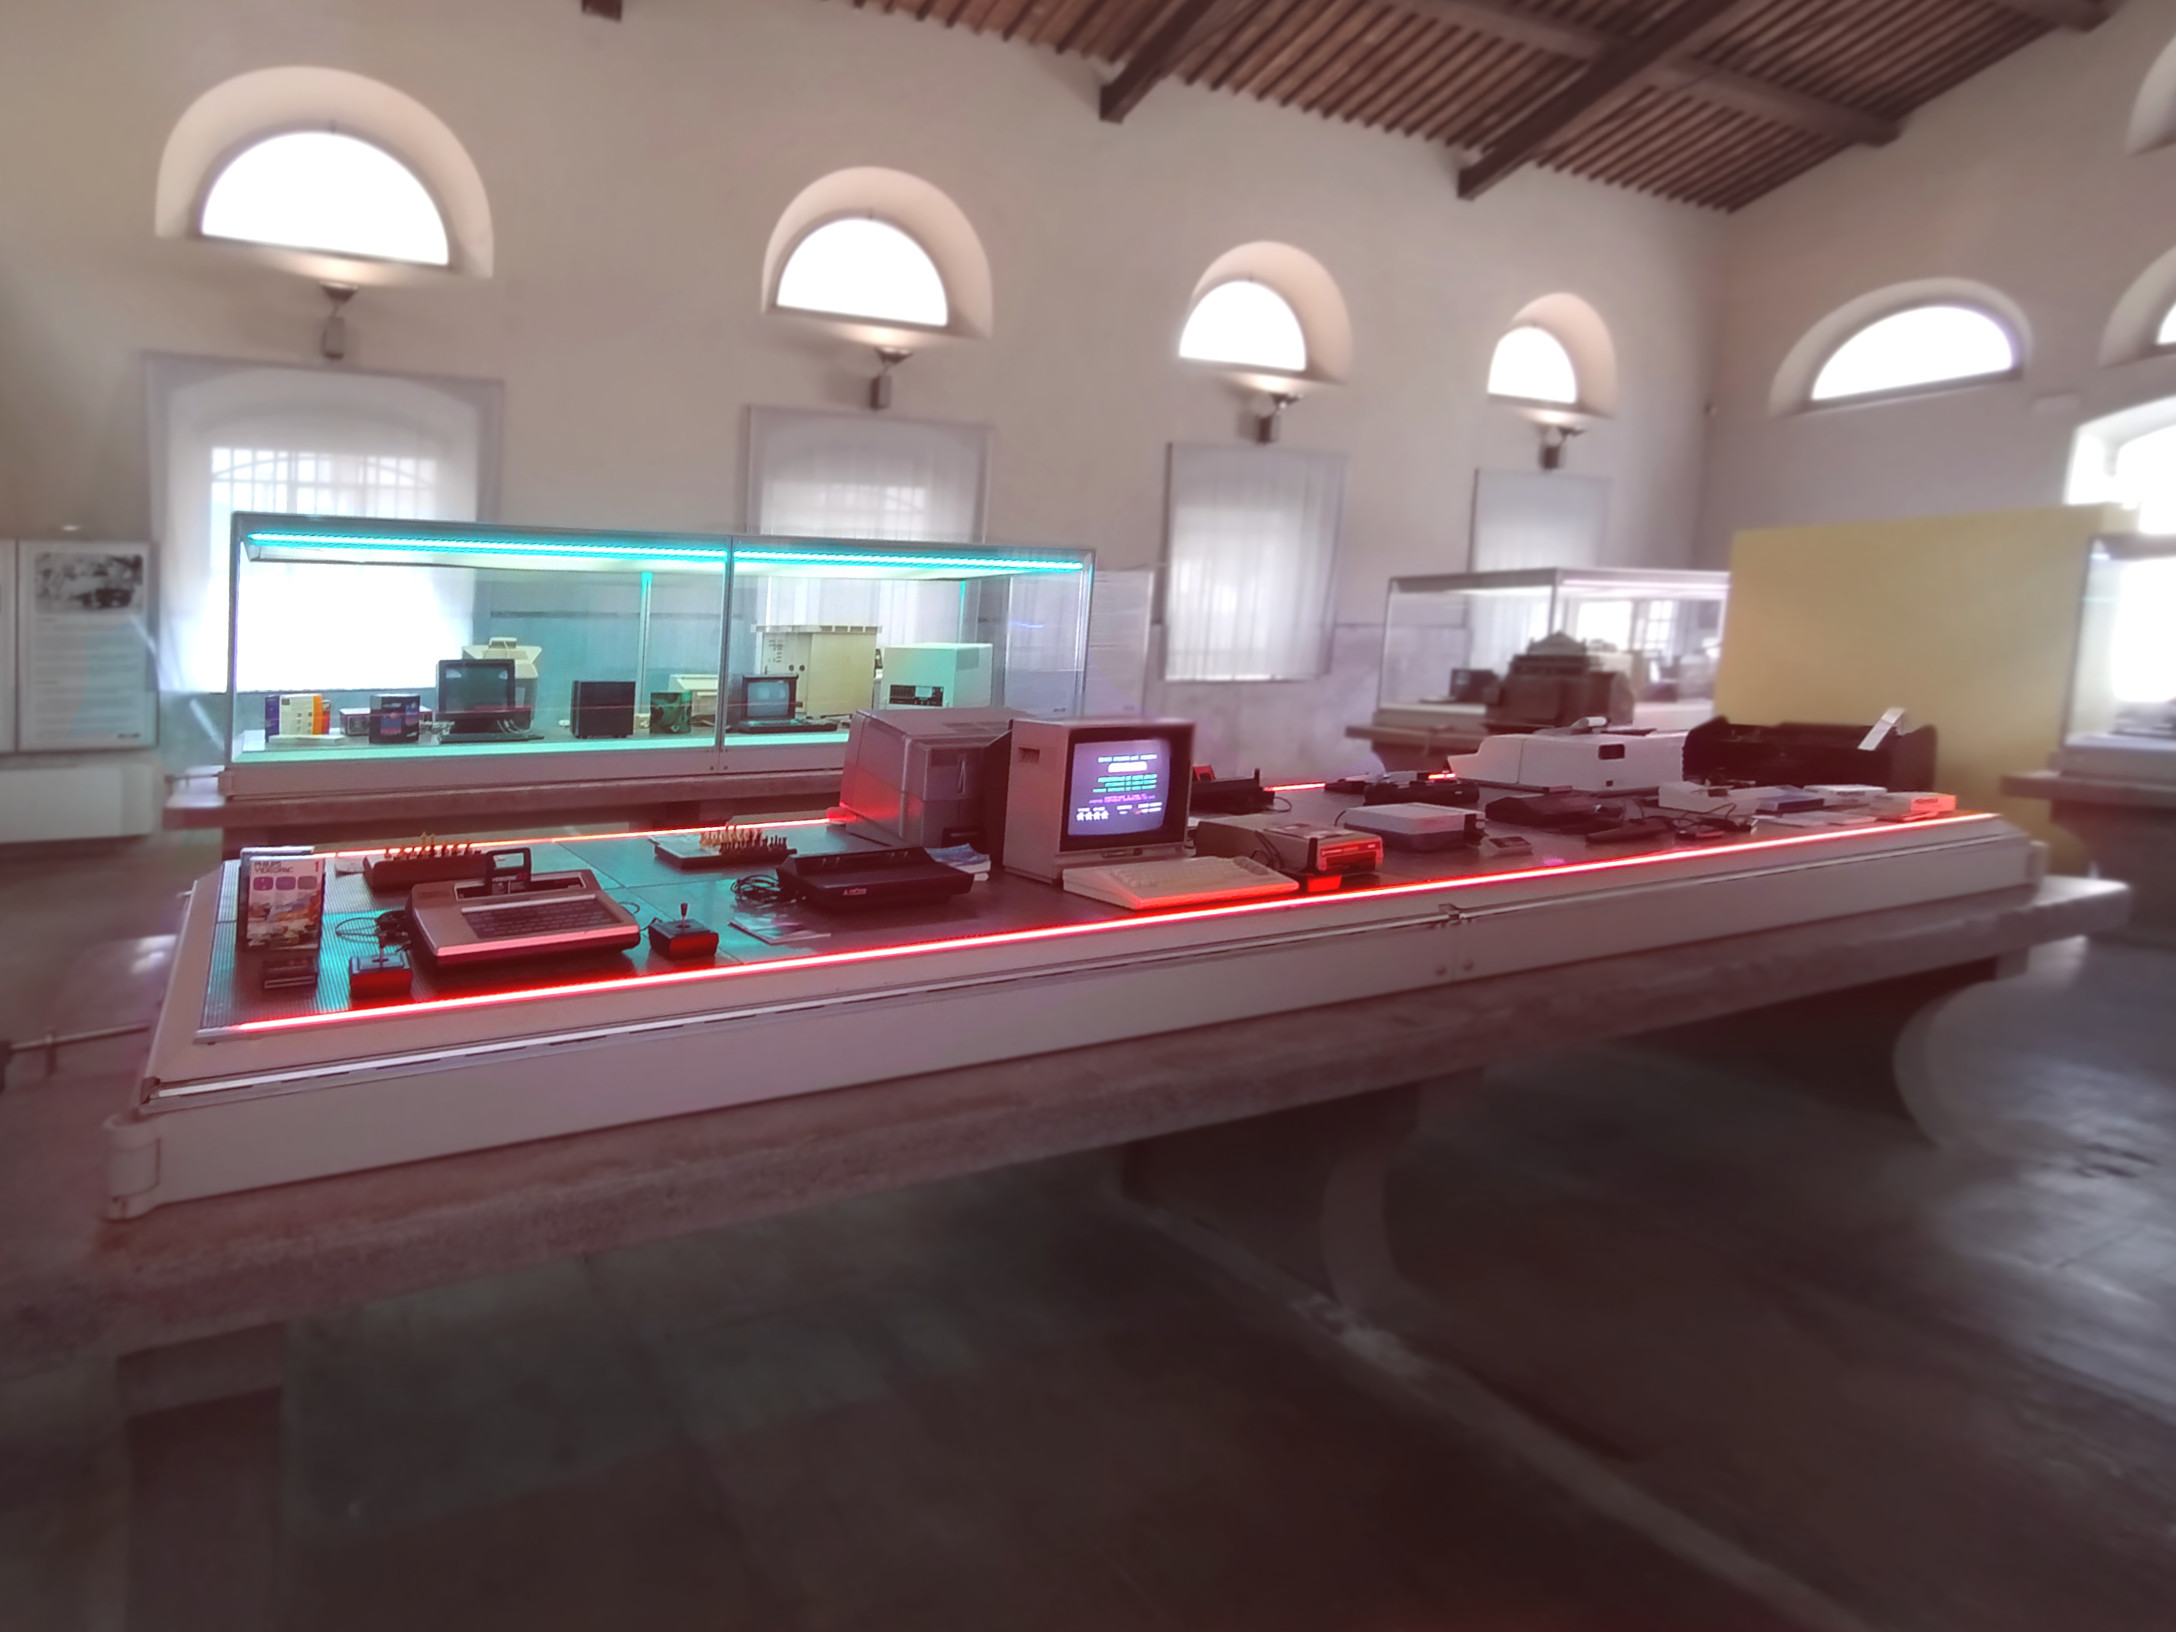
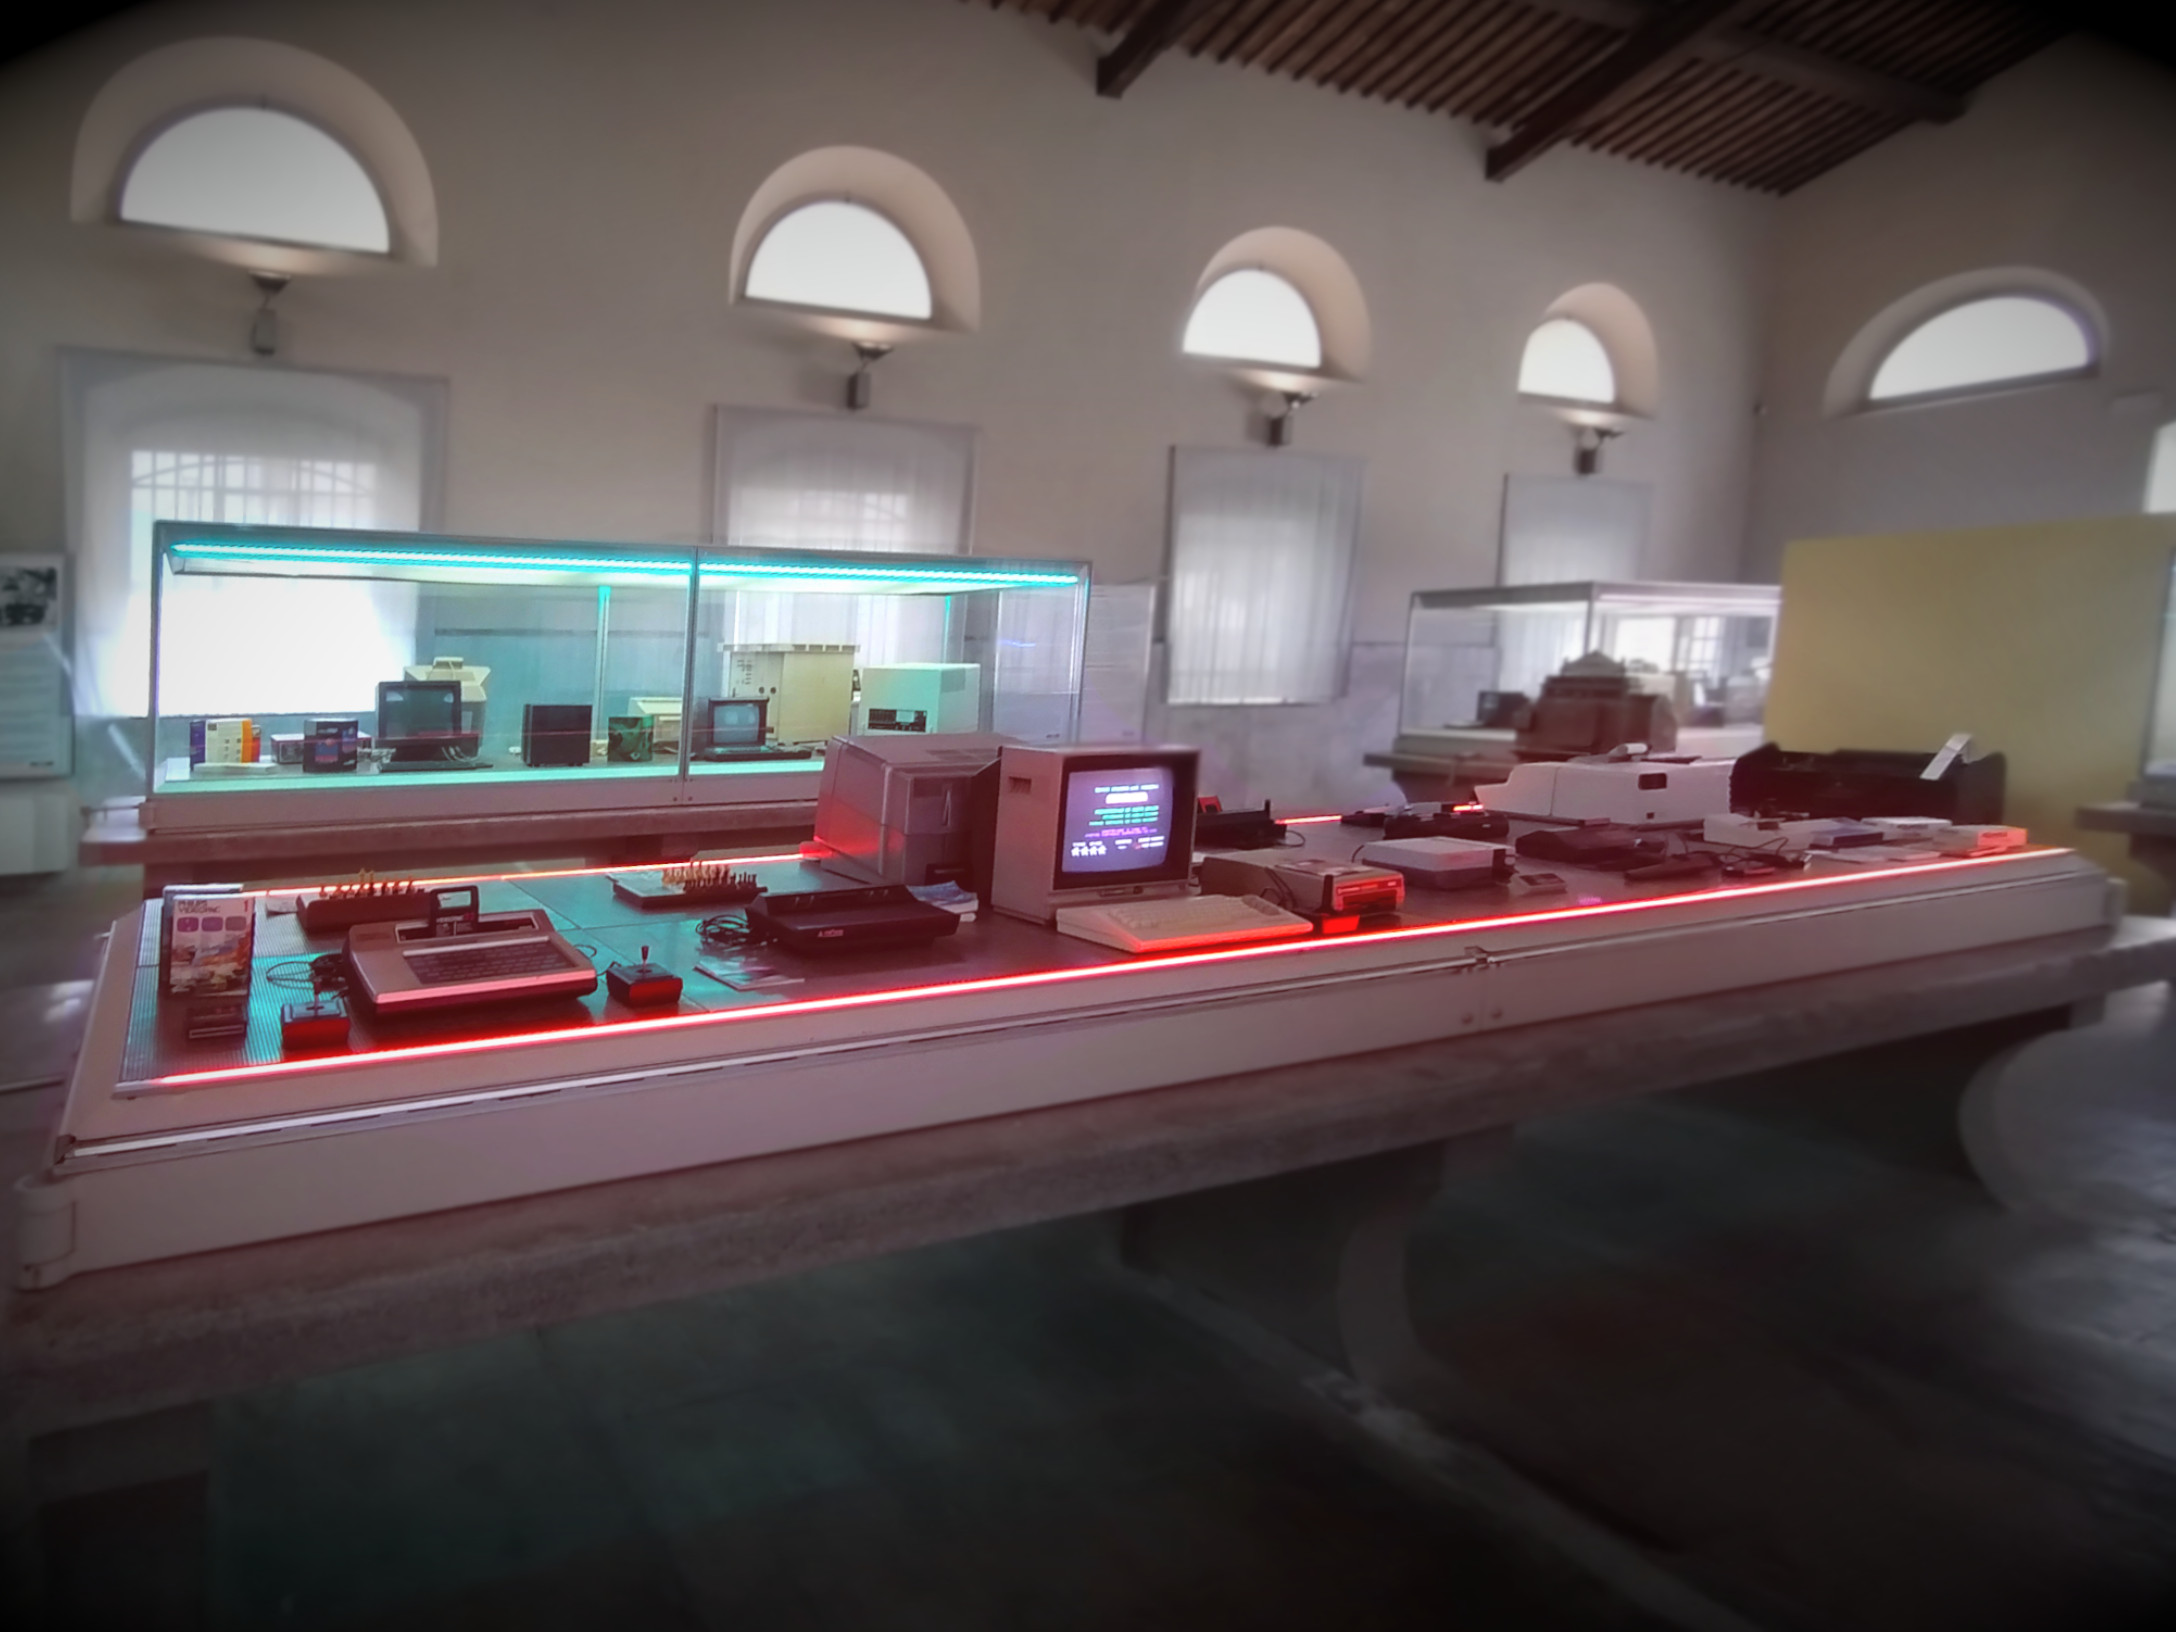
diverse proposte

diff --git a/README.md b/README.md
@@ -2,11 +2,9 @@
 Prototipo di audioguide per il sistema museale d'ateneo dell'Università di Pisa, specificamente per la nuova apertura del Museo degli Strumenti per il Calcolo.
 
 ## TODO list
-- Aggiungere galleria di immagini.
-- Pulire il codice in generale.
-- Continuare a riempire l'audioguida del MSC.
-- Caricarlo da qualche parte.
 - Separare `tours.json` dall'implementazione, così che non ci sia bisogno di compilare di nuovo per aggiornare il file.
+- versione in inglese
+- rimpicciolire l'anteprima del museo
 
 ## Tecnologie
 
